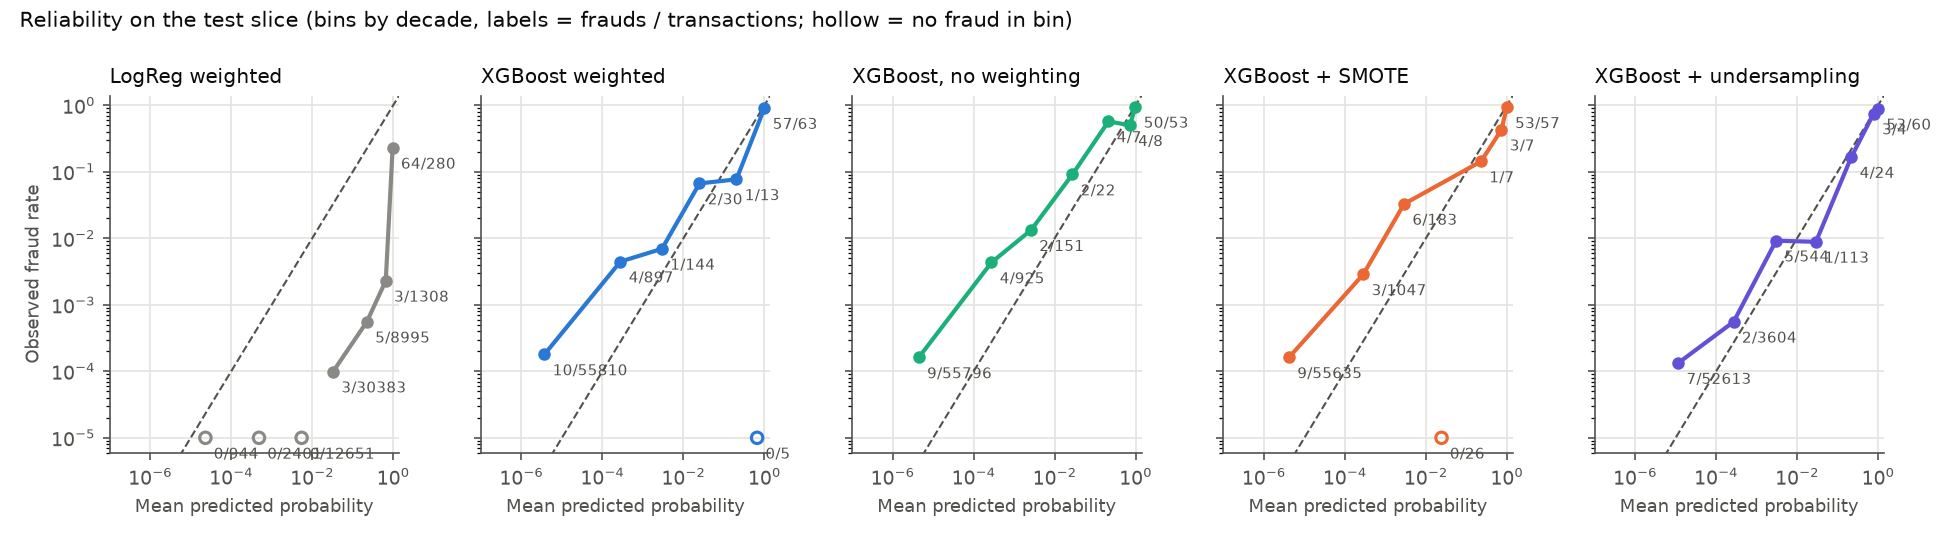
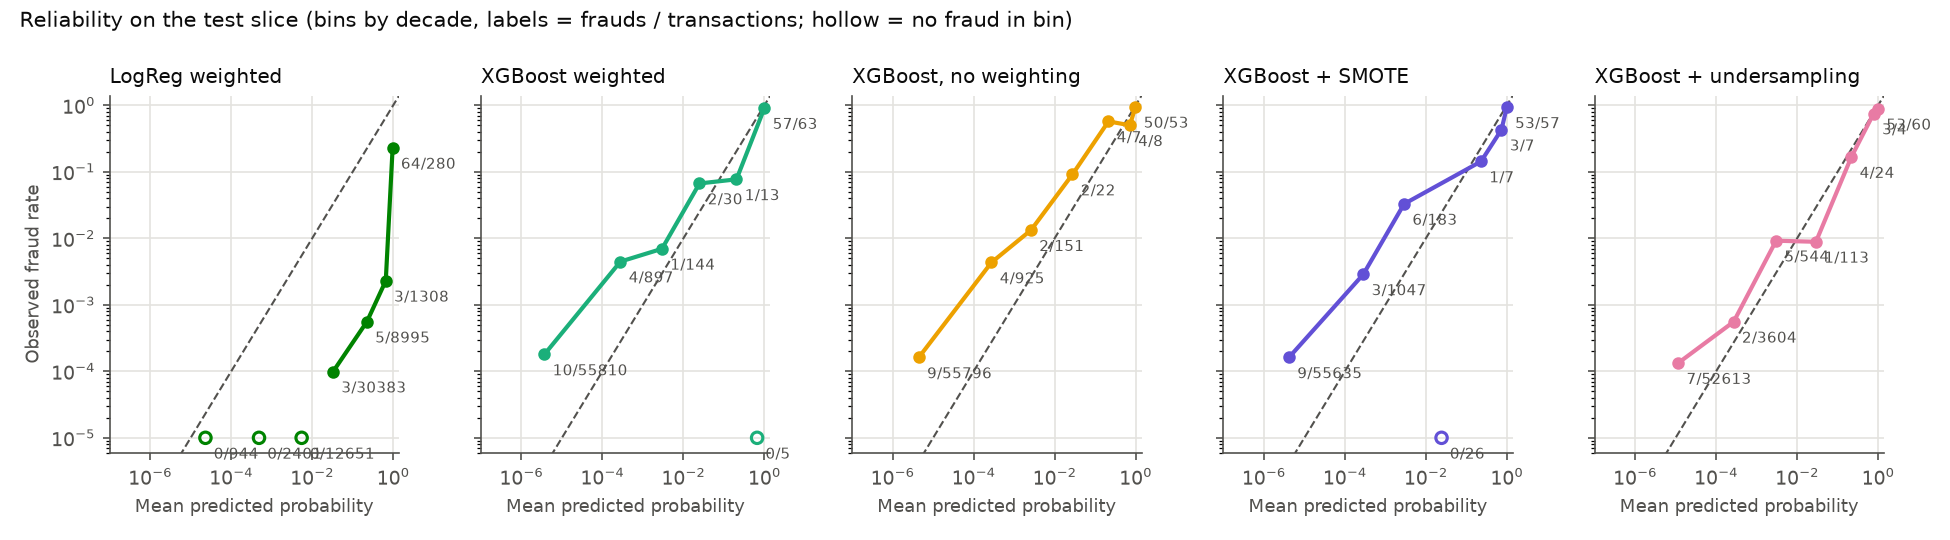
Move every figure to one shared palette, blue and orange last
The colours now live in src/fraudbudget/plotting.py: teal, violet, magenta,
yellow and green first, blue and orange only as a last resort, grey for
baselines. The five plotting scripts import it, and the three copies of
style_axis are gone.

All seven figures are regenerated from the scripts, including the J1 one that
had been replaced by hand: that version smoothed the step-shaped PR curves and
was not reproducible. Rerunning every script left all result CSVs byte-identical.

diff --git a/scripts/run_baseline.py b/scripts/run_baseline.py
@@ -24,6 +24,7 @@ from sklearn.metrics import precision_recall_curve  # noqa: E402
 ROOT = Path(__file__).resolve().parents[1]
 sys.path.insert(0, str(ROOT / "src"))
 from fraudbudget import config  # noqa: E402
+from fraudbudget.plotting import GREY, INK, INK_MUTED, TEAL, VIOLET, style_axis  # noqa: E402
 from fraudbudget.data import AMOUNT, TARGET, TIME, load_dataset  # noqa: E402
 from fraudbudget.evaluate import evaluate_scores  # noqa: E402
 from fraudbudget.models import FEATURES, make_model  # noqa: E402
@@ -36,8 +37,7 @@ FIGURES = ROOT / "figures"
 LABELS = {"dummy": "Dummy (always legit)", "logreg": "Logistic regression",
           "logreg_balanced": "Logistic regression, class-weighted"}
 BASELINES = ("dummy", "logreg", "logreg_balanced")
-COLORS = {"dummy": "#8a8986", "logreg": "#2a78d6", "logreg_balanced": "#eb6834"}
-INK, INK_MUTED, GRID = "#0b0b0b", "#52514e", "#e4e3df"
+COLORS = {"dummy": GREY, "logreg": TEAL, "logreg_balanced": VIOLET}
 
 
 def split_summary(split) -> pd.DataFrame:
@@ -52,16 +52,6 @@ def split_summary(split) -> pd.DataFrame:
     return pd.DataFrame(rows)
 
 
-def style_axis(ax) -> None:
-    for side in ("top", "right"):
-        ax.spines[side].set_visible(False)
-    for side in ("left", "bottom"):
-        ax.spines[side].set_color(INK_MUTED)
-    ax.tick_params(colors=INK_MUTED, labelsize=9)
-    ax.grid(color=GRID, linewidth=0.8)
-    ax.set_axisbelow(True)
-
-
 def plot(table: pd.DataFrame, curves: dict, prevalence: float, out: Path) -> None:
     fig, (ax1, ax2) = plt.subplots(1, 2, figsize=(11, 4.3), gridspec_kw={"width_ratios": [1, 1.3]})
 
@@ -71,8 +61,8 @@ def plot(table: pd.DataFrame, curves: dict, prevalence: float, out: Path) -> Non
     width = 0.36
     acc = table["accuracy@0.5"].to_numpy() * 100
     rec = table["recall@0.5"].to_numpy() * 100
-    b1 = ax1.bar(x - width / 2 - 0.01, acc, width, color="#2a78d6", label="Accuracy")
-    b2 = ax1.bar(x + width / 2 + 0.01, rec, width, color="#eb6834", label="Recall (frauds caught)")
+    b1 = ax1.bar(x - width / 2 - 0.01, acc, width, color=TEAL, label="Accuracy")
+    b2 = ax1.bar(x + width / 2 + 0.01, rec, width, color=VIOLET, label="Recall (frauds caught)")
     for bars, fmt in [(b1, "{:.2f}"), (b2, "{:.0f}")]:
         for bar in bars:
             ax1.text(bar.get_x() + bar.get_width() / 2, bar.get_height() + 1.5,
@@ -82,8 +72,7 @@ def plot(table: pd.DataFrame, curves: dict, prevalence: float, out: Path) -> Non
     ax1.set_ylabel("% at threshold 0.5", color=INK_MUTED, fontsize=9)
     ax1.set_title("Accuracy hides that the dummy catches nothing", fontsize=10.5, color=INK, loc="left")
     ax1.legend(frameon=False, fontsize=8.5, loc="upper center", bbox_to_anchor=(0.5, -0.17), ncol=2)
-    style_axis(ax1)
-    ax1.grid(axis="x", visible=False)
+    style_axis(ax1, grid_axis="y")
 
     # Right: precision-recall curves against the prevalence line (= random ranking).
     for name, (precision, recall) in curves.items():

diff --git a/scripts/run_thresholds.py b/scripts/run_thresholds.py
@@ -32,6 +32,7 @@ sys.path.insert(0, str(ROOT / "scripts"))
 from fraudbudget import config  # noqa: E402
 from fraudbudget.bootstrap import percentile_interval, stratified_indices  # noqa: E402
 from fraudbudget.calibration import brier, reliability  # noqa: E402
+from fraudbudget.plotting import GREEN, INK, INK_MUTED, MAGENTA, TEAL, VIOLET, YELLOW, style_axis  # noqa: E402
 from fraudbudget.data import AMOUNT, TARGET, load_dataset  # noqa: E402
 from fraudbudget.metrics import business_cost, confusion  # noqa: E402
 from fraudbudget.models import FEATURES, fraud_scores, make_model  # noqa: E402
@@ -59,10 +60,9 @@ LABELS = {
     "xgboost_undersample": "XGBoost + undersampling",
 }
 COLORS = {
-    "logreg_balanced": "#8a8986", "xgboost": "#2a78d6", "xgboost_plain": "#1baf7a",
-    "xgboost_smote": "#eb6834", "xgboost_undersample": "#6250d6",
+    "xgboost": TEAL, "xgboost_smote": VIOLET, "xgboost_undersample": MAGENTA,
+    "xgboost_plain": YELLOW, "logreg_balanced": GREEN,
 }
-INK, INK_MUTED, GRID = "#0b0b0b", "#52514e", "#e4e3df"
 
 
 def build(name: str, best: dict):
@@ -81,16 +81,6 @@ def apply_threshold(y, s, amount, threshold: float, cost_per_alert: float) -> di
         "missed_eur": cost.missed_fraud_eur, "review_eur": cost.review_eur,
         "cost_eur": cost.total_eur,
     }
-
-
-def style_axis(ax) -> None:
-    for side in ("top", "right"):
-        ax.spines[side].set_visible(False)
-    for side in ("left", "bottom"):
-        ax.spines[side].set_color(INK_MUTED)
-    ax.tick_params(colors=INK_MUTED, labelsize=9)
-    ax.grid(color=GRID, linewidth=0.8)
-    ax.set_axisbelow(True)
 
 
 def main() -> int:
@@ -197,7 +187,7 @@ def plot_cost_curve(y, s, amount, table: pd.DataFrame, c_alert: float) -> None:
     curve = cost_curve(y, s, amount, c_alert)
     keep = curve.n_alerts > 0
     fig, ax = plt.subplots(figsize=(8.5, 4.4))
-    ax.plot(curve.n_alerts[keep], curve.total_eur[keep], color="#2a78d6", linewidth=2,
+    ax.plot(curve.n_alerts[keep], curve.total_eur[keep], color=TEAL, linewidth=2,
             label="XGBoost weighted, every possible threshold")
     nothing = float(amount[y == 1].sum())
     ax.axhline(nothing, color=INK_MUTED, linestyle="--", linewidth=1)
@@ -209,7 +199,7 @@ def plot_cost_curve(y, s, amount, table: pd.DataFrame, c_alert: float) -> None:
     for rule, (label, marker) in markers.items():
         r = sub.loc[rule]
         ax.scatter(max(r.alerts, 1), r.cost_eur, marker=marker, s=70 if marker != "*" else 140,
-                   color="#eb6834" if rule != "oracle_on_test" else INK, zorder=3,
+                   color=VIOLET if rule != "oracle_on_test" else INK, zorder=3,
                    edgecolors="white", linewidths=1.2,
                    label=f"{label}: {int(r.alerts)} alerts, {r.cost_eur:,.0f} EUR")
     ax.set_xscale("log")

diff --git a/scripts/run_models.py b/scripts/run_models.py
@@ -16,7 +16,6 @@ from __future__ import annotations
 
 import json
 import sys
-from functools import partial
 from pathlib import Path
 
 import matplotlib
@@ -30,6 +29,7 @@ ROOT = Path(__file__).resolve().parents[1]
 sys.path.insert(0, str(ROOT / "src"))
 from fraudbudget import config  # noqa: E402
 from fraudbudget.bootstrap import bootstrap_metric, paired_differences, summarise  # noqa: E402
+from fraudbudget.plotting import GREY, INK, INK_MUTED, TEAL, style_axis  # noqa: E402
 from fraudbudget.data import AMOUNT, TARGET, load_dataset  # noqa: E402
 from fraudbudget.evaluate import evaluate_scores  # noqa: E402
 from fraudbudget.metrics import alerts_for_budget, pr_auc, recall_at_budget, recall_at_fpr  # noqa: E402
@@ -53,7 +53,7 @@ PAIRS = [
     ("xgboost_undersample", "xgboost"),
     ("xgboost", "isolation_forest"),
 ]
-INK, INK_MUTED, GRID, ACCENT, NEUTRAL = "#0b0b0b", "#52514e", "#e4e3df", "#2a78d6", "#8a8986"
+ACCENT, NEUTRAL = TEAL, GREY
 
 
 def model_kwargs(name: str, best: dict) -> dict:
@@ -66,16 +66,6 @@ def model_kwargs(name: str, best: dict) -> dict:
     if name == "isolation_forest":
         return {"params": best["isolation_forest"]["params"]}
     return {}
-
-
-def style_axis(ax) -> None:
-    for side in ("top", "right"):
-        ax.spines[side].set_visible(False)
-    for side in ("left", "bottom"):
-        ax.spines[side].set_color(INK_MUTED)
-    ax.tick_params(colors=INK_MUTED, labelsize=9)
-    ax.grid(axis="x", color=GRID, linewidth=0.8)
-    ax.set_axisbelow(True)
 
 
 def interval_panel(ax, table: pd.DataFrame, order: list[str], title: str, xlabel: str,
@@ -96,7 +86,7 @@ def interval_panel(ax, table: pd.DataFrame, order: list[str], title: str, xlabel
     ax.set_ylim(-0.6, len(order) - 0.1)
     ax.set_xlabel(xlabel, color=INK_MUTED, fontsize=9)
     ax.set_title(title, fontsize=10.5, color=INK, loc="left")
-    style_axis(ax)
+    style_axis(ax, grid_axis="x")
 
 
 def main() -> int:

diff --git a/scripts/run_drift.py b/scripts/run_drift.py
@@ -38,6 +38,7 @@ ROOT = Path(__file__).resolve().parents[1]
 sys.path.insert(0, str(ROOT / "src"))
 sys.path.insert(0, str(ROOT / "scripts"))
 from fraudbudget import config  # noqa: E402
+from fraudbudget.plotting import GRID, INK, INK_MUTED, TEAL, VIOLET  # noqa: E402
 from fraudbudget.data import COLUMNS, TARGET, TIME, load_dataset  # noqa: E402
 from fraudbudget.metrics import pr_auc, recall_at_fpr  # noqa: E402
 from fraudbudget.models import FEATURES, fraud_scores, make_model  # noqa: E402
@@ -50,7 +51,6 @@ FIGURES = ROOT / "figures"
 MODELS = ("logreg_balanced", "xgboost")
 RANDOM_SEEDS = (0, 1, 2, 3, 4)
 SECONDS_PER_HOUR = 3600
-INK, INK_MUTED, GRID = "#0b0b0b", "#52514e", "#e4e3df"
 
 
 def fit_and_score(name: str, best: dict, train: pd.DataFrame, test: pd.DataFrame) -> dict:
@@ -153,9 +153,9 @@ def main() -> int:
 def plot_hourly(hourly: pd.DataFrame, split) -> None:
     fig, (ax1, ax2) = plt.subplots(2, 1, figsize=(10, 5.2), sharex=True)
     x = hourly.index.to_numpy() + 0.5
-    ax1.bar(x, hourly["transactions"] / 1000, width=0.85, color="#2a78d6")
+    ax1.bar(x, hourly["transactions"] / 1000, width=0.85, color=TEAL)
     ax1.set_ylabel("Transactions\n(thousands / hour)", color=INK_MUTED, fontsize=9)
-    ax2.bar(x, hourly["fraud_rate_pct"], width=0.85, color="#eb6834")
+    ax2.bar(x, hourly["fraud_rate_pct"], width=0.85, color=VIOLET)
     ax2.set_ylabel("Fraud rate (%)", color=INK_MUTED, fontsize=9)
     ax2.set_xlabel("Hours since the first transaction", color=INK_MUTED, fontsize=9)
     bounds = [split.val[TIME].min() / SECONDS_PER_HOUR, split.test[TIME].min() / SECONDS_PER_HOUR]

diff --git a/src/fraudbudget/plotting.py b/src/fraudbudget/plotting.py
@@ -1,0 +1,36 @@
+"""Shared colours and axis style for every figure of the project.
+
+Series take colours in this order: teal, violet, magenta, yellow, green. Blue
+and orange come last, only if a figure ever needs more than five series; I
+prefer to keep them out of the charts. Grey is reserved for baselines (dummy
+model, random ranking, "flag nothing"). Teal, magenta and yellow have a low
+contrast on white, so every figure keeps visible labels or a legend.
+"""
+
+from __future__ import annotations
+
+TEAL = "#1baf7a"
+VIOLET = "#6250d6"
+MAGENTA = "#e87ba4"
+YELLOW = "#eda100"
+GREEN = "#008300"
+BLUE = "#2a78d6"    # last resort
+ORANGE = "#eb6834"  # last resort
+GREY = "#8a8986"    # baselines only
+
+SERIES = (TEAL, VIOLET, MAGENTA, YELLOW, GREEN, BLUE, ORANGE)
+
+INK = "#0b0b0b"
+INK_MUTED = "#52514e"
+GRID = "#e4e3df"
+
+
+def style_axis(ax, grid_axis: str = "both") -> None:
+    """Light grid behind the data, no top/right spines, muted ticks."""
+    for side in ("top", "right"):
+        ax.spines[side].set_visible(False)
+    for side in ("left", "bottom"):
+        ax.spines[side].set_color(INK_MUTED)
+    ax.tick_params(colors=INK_MUTED, labelsize=9)
+    ax.grid(axis=grid_axis, color=GRID, linewidth=0.8)
+    ax.set_axisbelow(True)

diff --git a/scripts/run_stress.py b/scripts/run_stress.py
@@ -27,6 +27,7 @@ ROOT = Path(__file__).resolve().parents[1]
 sys.path.insert(0, str(ROOT / "src"))
 sys.path.insert(0, str(ROOT / "scripts"))
 from fraudbudget import config  # noqa: E402
+from fraudbudget.plotting import GRID, INK, INK_MUTED, MAGENTA, TEAL, VIOLET  # noqa: E402
 from fraudbudget.data import TARGET, load_dataset  # noqa: E402
 from fraudbudget.metrics import confusion, pr_auc  # noqa: E402
 from fraudbudget.models import FEATURES, fraud_scores, make_model  # noqa: E402
@@ -43,11 +44,10 @@ LABELS = {"logreg_balanced": "LogReg weighted", "xgboost": "XGBoost weighted"}
 PREVALENCES = (0.001, 0.0005, 0.0002)  # plus the test slice as it is
 N_REPEATS = 200
 METRIC_STYLE = {
-    "roc_auc": ("ROC-AUC", "#8a8986"),
-    "pr_auc": ("PR-AUC", "#2a78d6"),
-    "precision": ("Precision at the frozen threshold", "#eb6834"),
+    "roc_auc": ("ROC-AUC", MAGENTA),
+    "pr_auc": ("PR-AUC", TEAL),
+    "precision": ("Precision at the frozen threshold", VIOLET),
 }
-INK, INK_MUTED, GRID = "#0b0b0b", "#52514e", "#e4e3df"
 
 
 def main() -> int:
